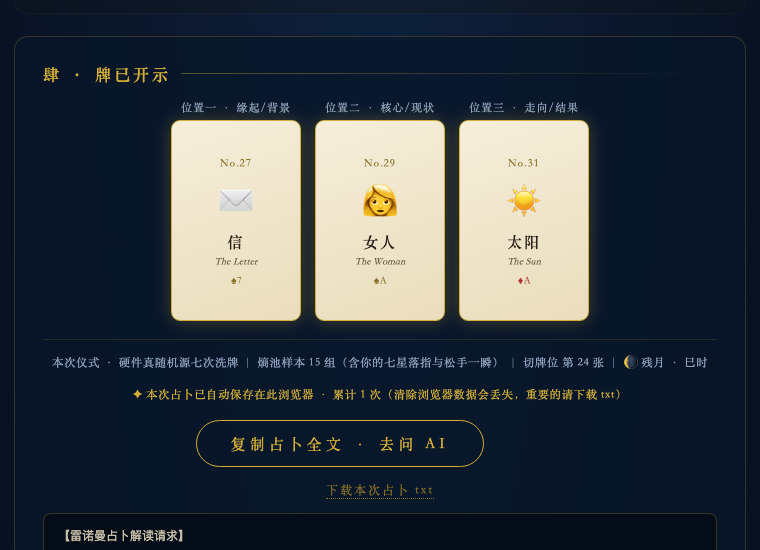
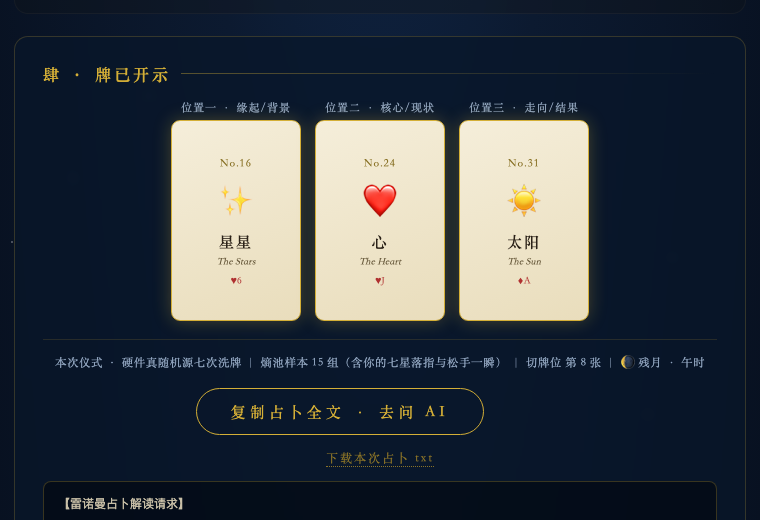
去掉每次开牌的保存提示（改为静默保存），页脚增加隐私公告栏；更新 README 截图

diff --git a/index.html b/index.html
@@ -186,7 +186,12 @@
   }
   .copy-ok{color:var(--gold);font-size:13px;letter-spacing:2px;margin-left:14px;opacity:0;transition:opacity .3s;}
   .copy-ok.show{opacity:1;}
-  footer{text-align:center;font-size:11px;color:rgba(154,143,176,.5);letter-spacing:2px;margin-top:30px;}
+  .notice{
+    max-width:620px;margin:28px auto 0;padding:11px 18px;
+    border:1px solid rgba(212,175,55,.22);border-radius:8px;
+    font-size:11.5px;color:var(--ink-dim);text-align:center;letter-spacing:1px;line-height:1.9;
+  }
+  footer{text-align:center;font-size:11px;color:rgba(143,163,189,.5);letter-spacing:2px;margin-top:22px;}
 </style>
 </head>
 <body>
@@ -241,7 +246,6 @@
     <h2>肆 · 牌已开示</h2>
     <div class="cards-area" id="cards-area"></div>
     <div class="ritual-report" id="ritual-report"></div>
-    <div class="ritual-report" id="save-status" style="border-top:none;padding-top:4px"></div>
     <div class="btn-row">
       <button class="btn" id="copy-btn">复制占卜全文 · 去问 AI</button>
       <span class="copy-ok" id="copy-ok">✦ 已复制</span>
@@ -255,9 +259,11 @@
     </div>
   </section>
 
+  <div class="notice">
+    隐私公告 · 本页不收集任何个人信息，仅作无 cookie 的匿名访问计数。你的问题与抽牌记录只保存在你自己设备的浏览器中，不会上传到任何服务器，可随时<a href="#" id="export-all" style="color:var(--gold-dim)">导出全部占卜历史</a>。
+  </div>
   <footer>
     心诚则灵 · 同一问题一日只问一次<br>
-    本页仅统计匿名访问量（无 cookie）；你的问题与牌局不会上传，只存在你自己的浏览器里 · <a href="#" id="export-all" style="color:var(--gold-dim)">导出全部占卜历史</a><br>
     占卜结果仅供娱乐与自省，不构成医疗、法律、投资建议
   </footer>
 </main>
@@ -578,9 +584,6 @@ function saveArchive(rec){
   const list=historyList();
   list.push(rec);
   localStorage.setItem(HISTORY_KEY,JSON.stringify(list.slice(-200)));
-  const el=document.getElementById("save-status");
-  el.style.color="var(--gold)";
-  el.textContent="✦ 本次占卜已自动保存在此浏览器 · 累计 "+list.length+" 次（清除浏览器数据会丢失，重要的请下载 txt）";
 }
 function downloadTxt(filename,content){
   const a=document.createElement("a");